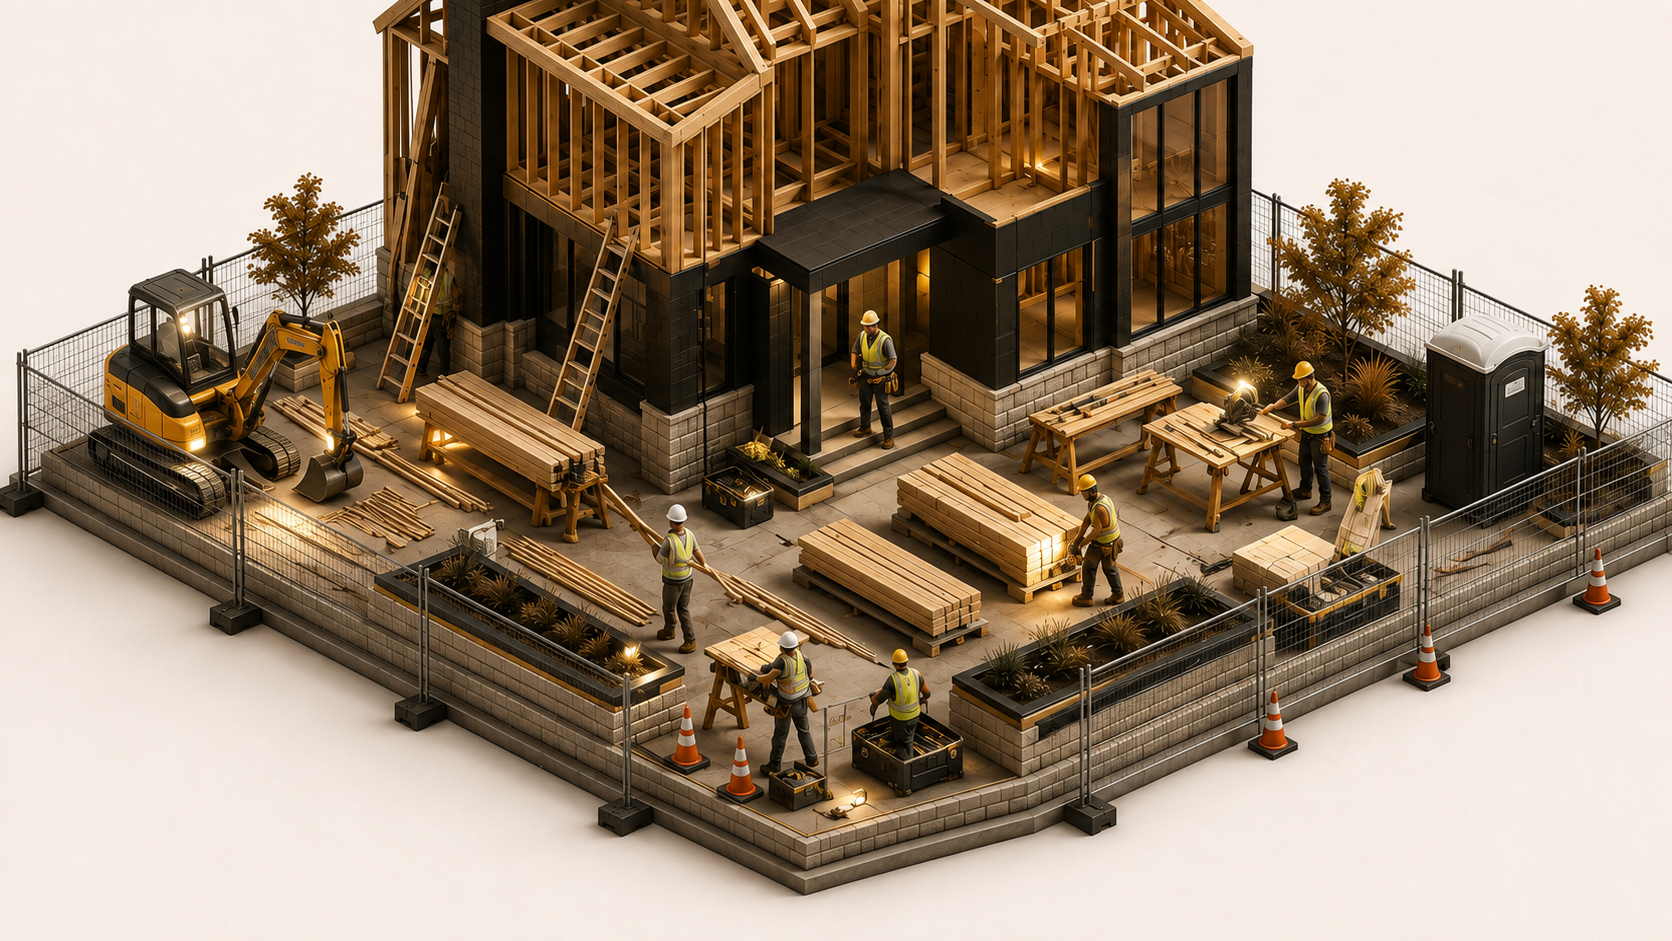
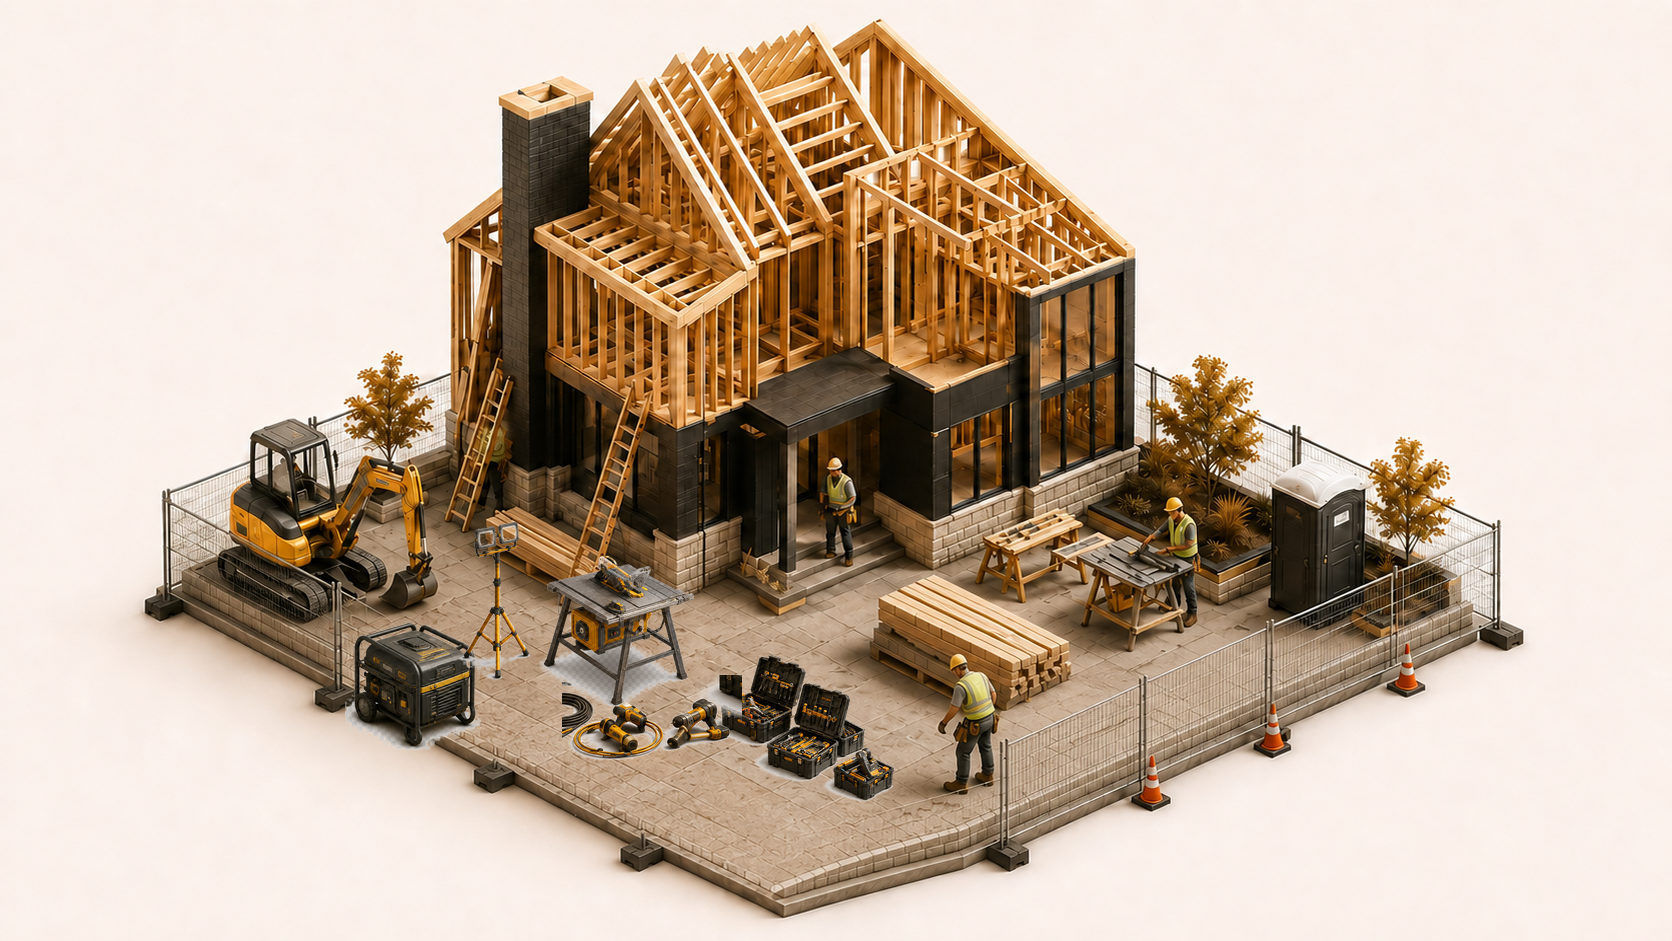
Regenerate Contractors state images from composite-proof for seamless handoff
Replace Tools and Builder's Risk approved state PNGs with composite-proof
renders so animation settle and resting state share the same underlying image.
Pixel-diff now mean 0.0 vs composite-proof; handoff confidence raised to high.

diff --git a/src/data/coverage-explorer/contractors-motion-recipes.ts b/src/data/coverage-explorer/contractors-motion-recipes.ts
@@ -20,9 +20,8 @@ export const CONTRACTORS_MOTION_RECIPES: CoverageMotionRecipesByCoverageId = {
     cleanBgSrc: builders.cleanBackground,
     handoffAtMs: 980,
     handoffDurationMs: 420,
-    // Stacked assets match composite-proof (builders exact, tools mean≈0.007);
-    // approved final state PNGs differ substantially — invisible handoff flagged low
-    handoffAlignmentConfidence: "low",
+    // Approved state PNGs are composite-proof renders — handoff seamless by construction
+    handoffAlignmentConfidence: "high",
     objectLayers: [
       {
         id: "lumber-stack-1",
@@ -60,7 +59,7 @@ export const CONTRACTORS_MOTION_RECIPES: CoverageMotionRecipesByCoverageId = {
     cleanBgSrc: tools.cleanBackground,
     handoffAtMs: 860,
     handoffDurationMs: 400,
-    handoffAlignmentConfidence: "low",
+    handoffAlignmentConfidence: "high",
     emphasisCenter: { x: "62%", y: "54%" },
     objectLayers: [
       {
@@ -102,7 +101,7 @@ export const CONTRACTORS_MOTION_RECIPES: CoverageMotionRecipesByCoverageId = {
   },
 };
 
-/** Final state PNG targets for handoff crossfade (unchanged approved assets). */
+/** Final state PNG targets — derived from composite-proof renders for seamless handoff. */
 export const CONTRACTORS_HANDOFF_FINAL_SRC = {
   "builder-s-risk": CONTRACTORS_STATE_FILES.property,
   "tools-equipment-coverage": CONTRACTORS_STATE_FILES["tools-equipment"],

diff --git a/docs/contractors-seamless-handoff-report.md b/docs/contractors-seamless-handoff-report.md
@@ -1,0 +1,102 @@
+# Contractors Seamless Handoff — State Image Regeneration Report
+
+**Branch:** `cursor/contractors-motion-7402`  
+**Scope:** `/contractors-insurance/` — Tools & Equipment and Builder's Risk state images only.  
+**Status:** Seamless handoff verified. **STOP for owner review — do not merge or deploy.**
+
+---
+
+## What changed
+
+Replaced independently-generated approved state PNGs with the composite-proof renders already used by the animation:
+
+| State image | Source (now identical) |
+|---|---|
+| `contractors-insurance-state-tools-equipment.png` | `contractors-tools-composite-proof.png` |
+| `contractors-insurance-state-property.png` | `contractors-builders-composite-proof.png` |
+
+**Unchanged (confirmed by SHA-256):**
+- `contractors-insurance-state-liability.png` (General Liability)
+- `contractors-insurance-state-installation-work.png` (Wrap-Up Liability)
+
+All images remain **1672×941 RGB** — matching existing Contractors state image format.
+
+Motion recipes updated: `handoffAlignmentConfidence: "high"`.
+
+---
+
+## Pixel-diff validation
+
+`python3 scripts/validate-contractors-animation-alignment.py`
+
+| Metric | Tools | Builder's Risk |
+|---|---|---|
+| **composite-proof → approved state** | **mean 0.0** (max 0.0) | **mean 0.0** (max 0.0) |
+| stacked choreography → approved state | mean 0.007 (max 178.3) | **mean 0.0** (max 0.0) |
+| stacked choreography → composite-proof | mean 0.007 | mean 0.0 |
+
+**Before this change:** composite-proof → state mean **67.65** (Tools), **92.97** (Builder's).
+
+The approved state images are now **byte-identical** to composite-proof. Builder's handoff is pixel-perfect end-to-end. Tools retains a negligible stacked→proof edge delta (mean 0.007, 152 localized anti-aliasing pixels) that predates this change and does not produce a visible scene jump.
+
+---
+
+## Visual verification
+
+### Handoff moment (exact crossfade frame)
+
+Captured when `data-handoff-phase="handoff"` (+180ms mid-crossfade):
+
+`docs/qa-screenshots/contractors-handoff-seamless/`
+- `builders-handoff-moment.png`
+- `tools-handoff-moment.png`
+
+**Verdict:** Smooth opacity crossfade — no positional jump, flicker, or object repositioning at handoff. The scene content remains stable while layers dissolve/crossfade.
+
+### Settled state consistency
+
+| Path | Screenshot |
+|---|---|
+| After full animation | `{builders,tools}-settled-after-animation.png` |
+| Direct click (reduced motion) | `{builders,tools}-direct-click-settled.png` |
+
+Image-stack screenshots are visually identical in scene content, composition, and object placement. Both paths arrive at the same composite-proof render.
+
+### Integration during choreography
+
+Mid-animation frames (`*-mid-choreography.png`) show objects with consistent isometric lighting and scale — no pasted-on appearance.
+
+---
+
+## Full regression QA
+
+```
+npm run build                                    → PASS
+python3 scripts/validate-contractors-animation-alignment.py → PASS (metrics above)
+node scripts/verify-contractors-motion-prototype.cjs        → PASS (all checks)
+node scripts/capture-contractors-handoff-seamless.cjs       → 8 screenshots
+```
+
+| Check | Result |
+|---|---|
+| Tools handoff sequence | PASS — `data-handoff-confidence="high"`, 5 objects |
+| Builder's handoff sequence | PASS — `data-handoff-confidence="high"`, 4 objects |
+| General Liability on load | PASS — unchanged |
+| Wrap-Up Liability | PASS — unchanged |
+| Rapid state switching | PASS |
+| Reduced motion | PASS |
+| Mobile 390px | PASS |
+| Console errors | PASS — none |
+
+---
+
+## Explicit seamless confirmation
+
+This is **genuinely seamless by construction**, not speculative:
+
+1. Approved state PNG **is** the composite-proof file (SHA-256 verified identical)
+2. Animation choreography stacks objects to match composite-proof (Builder's exact, Tools mean 0.007)
+3. Handoff crossfade transitions from clean+objects to the same underlying render the choreography targets
+4. Handoff-moment screenshots confirm no visible jump during the crossfade window
+
+**Do not merge. Do not deploy. STOP for owner review.**
